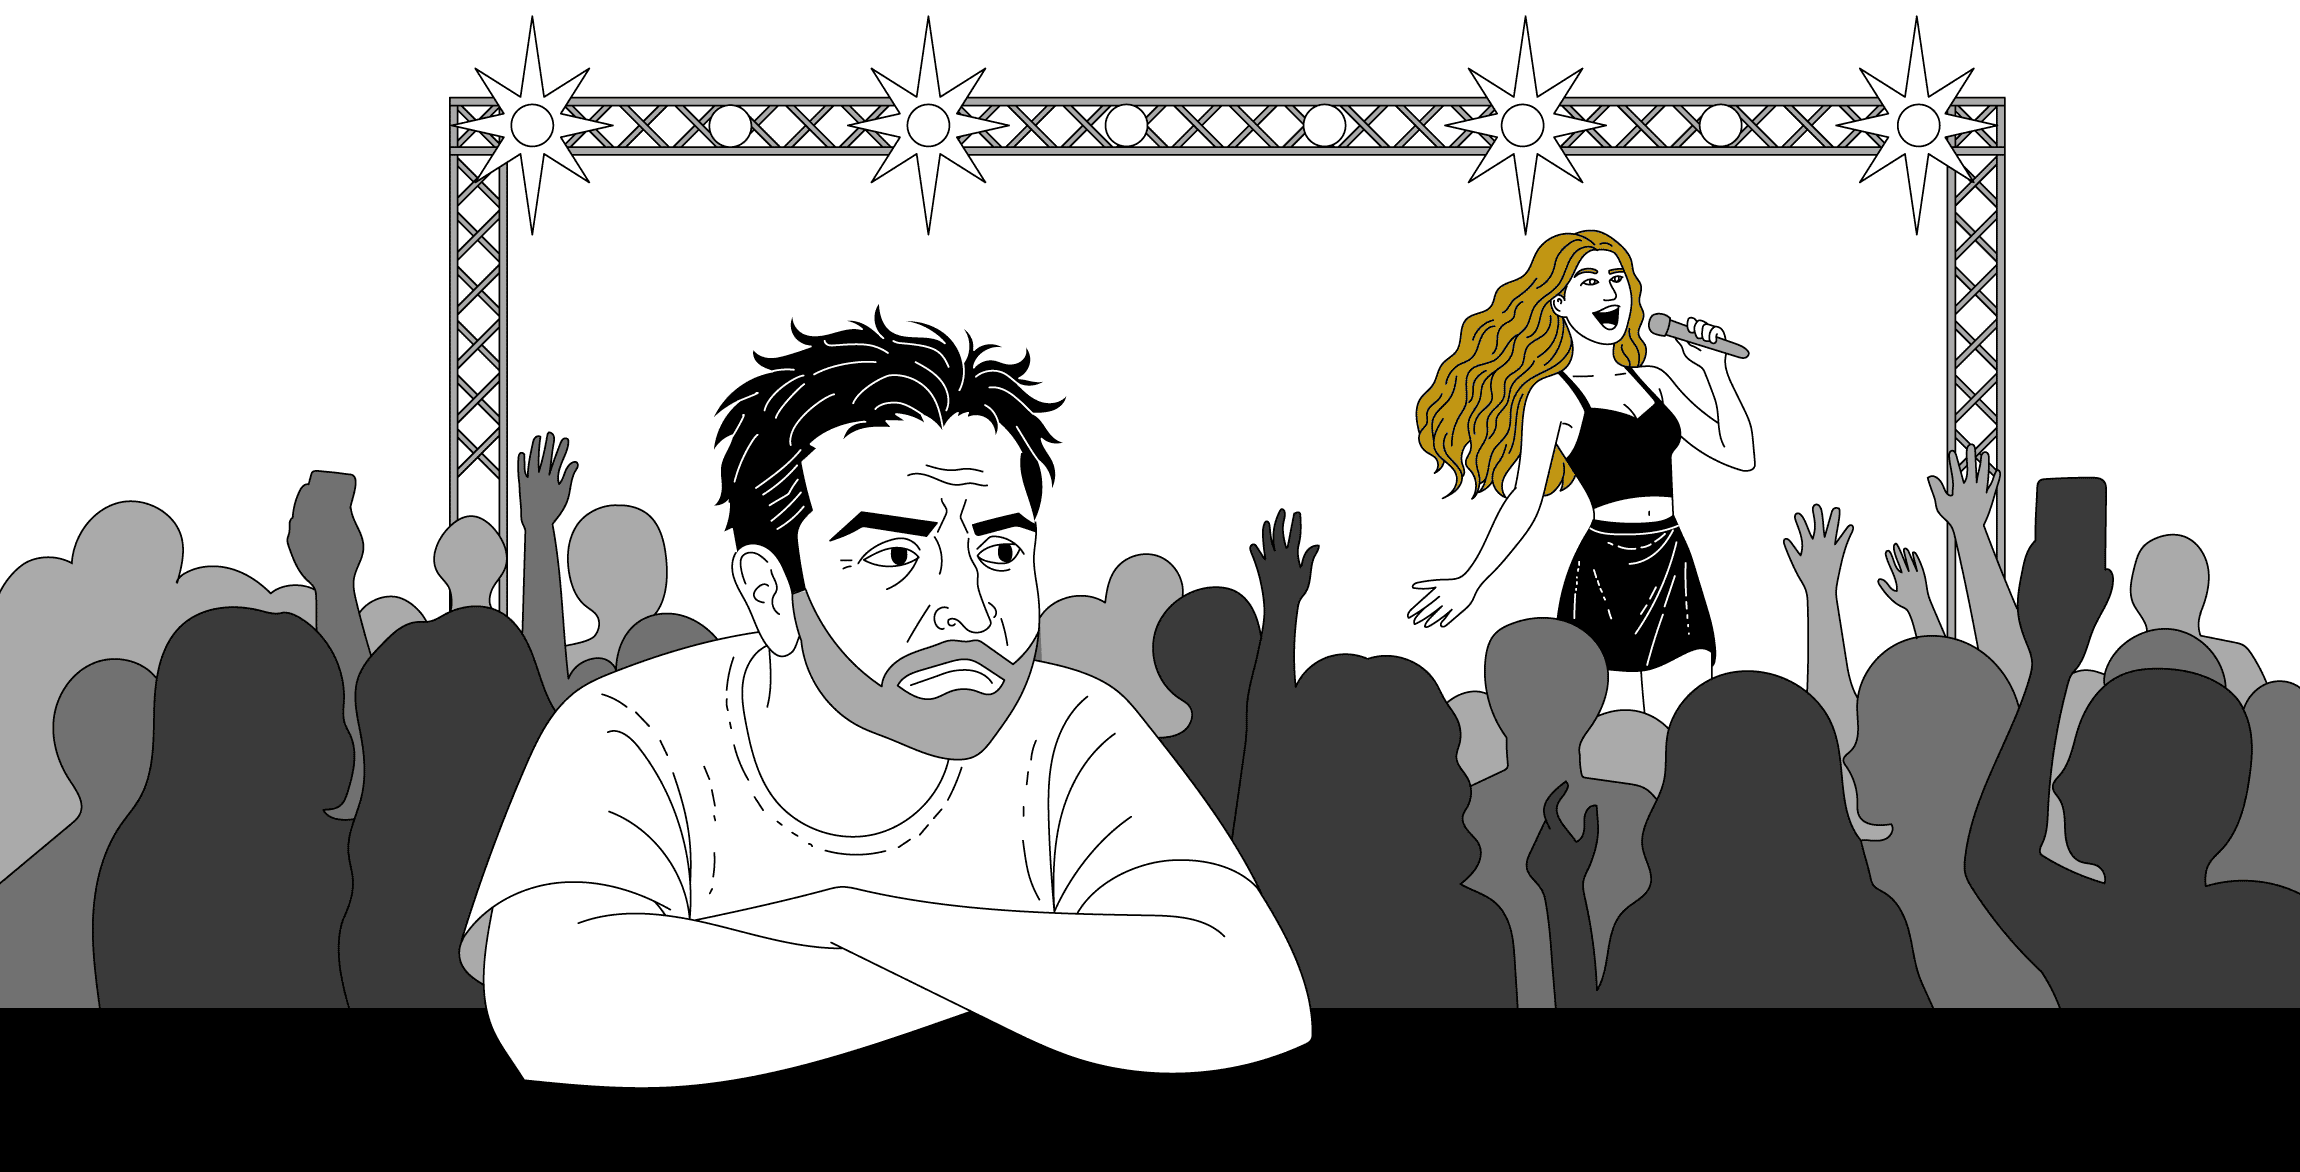
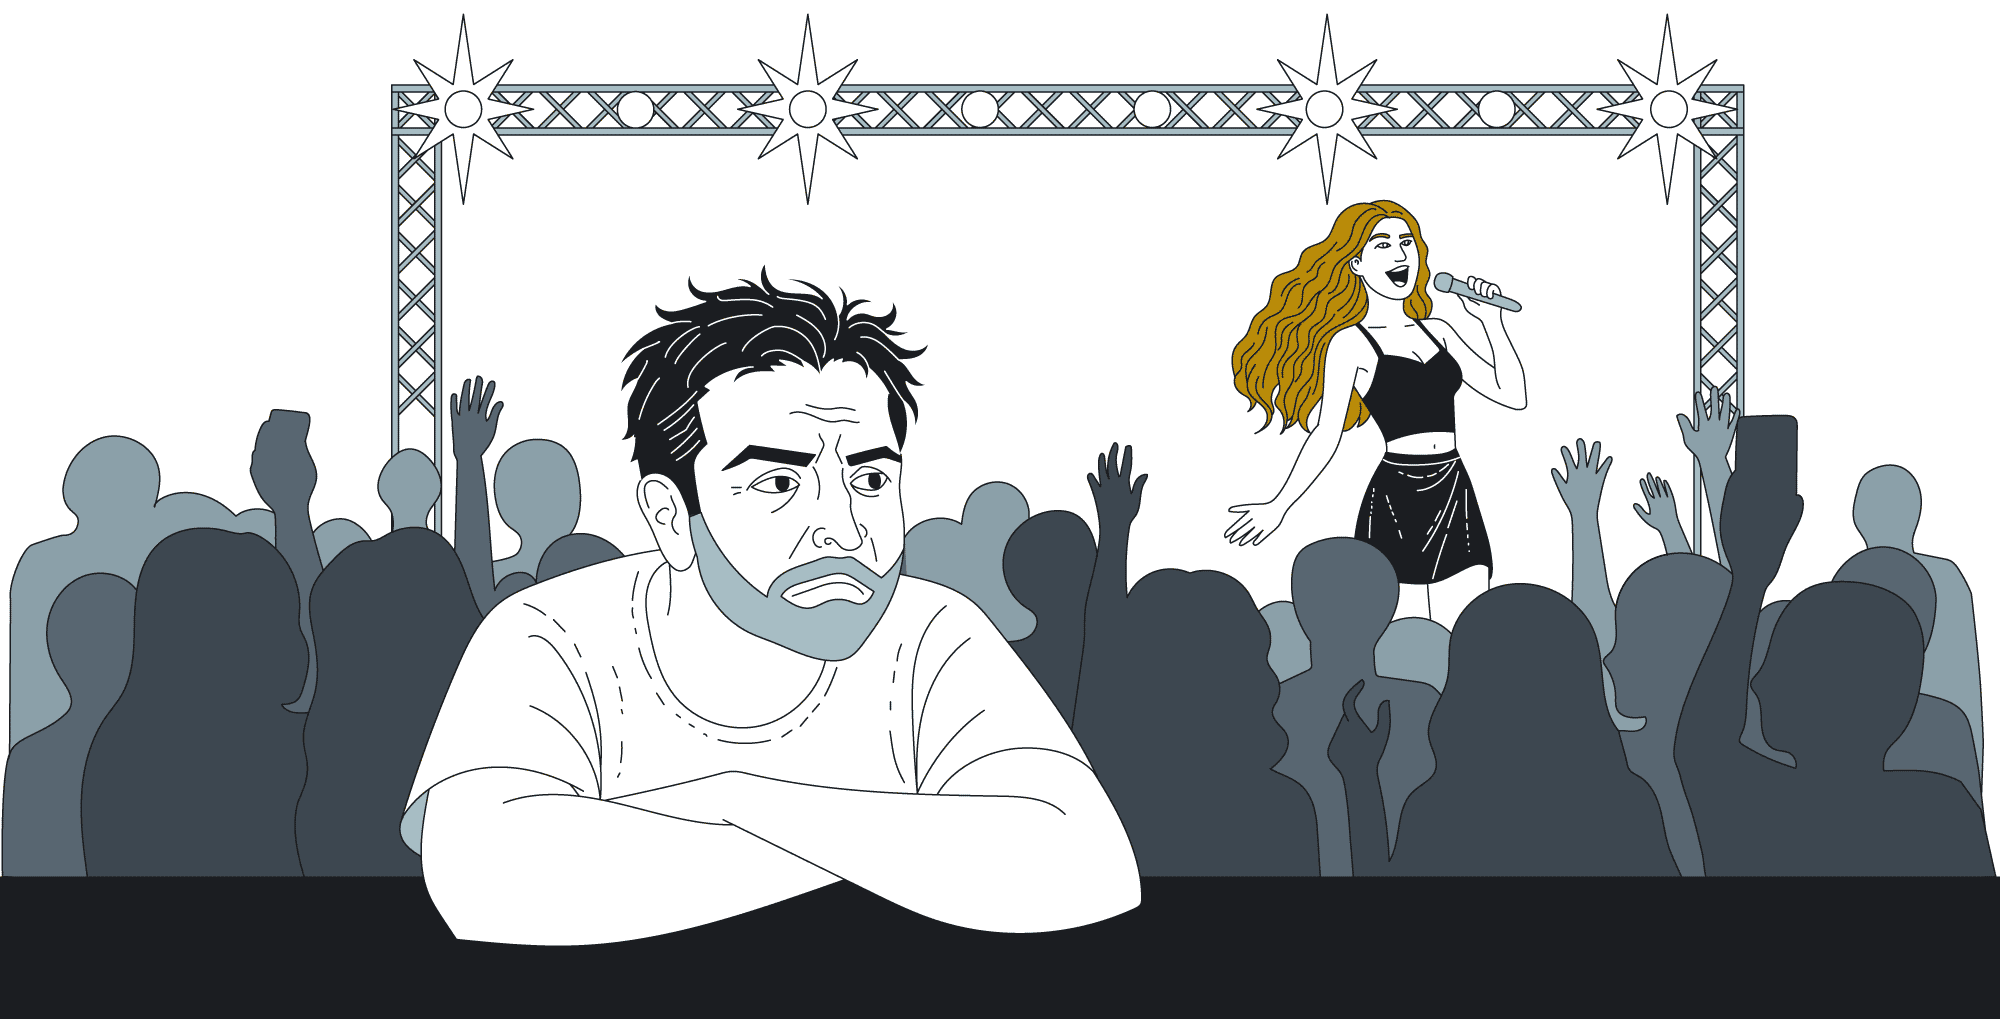
design: updating section illos with new black

diff --git a/src/styles/app.css b/src/styles/app.css
@@ -166,7 +166,8 @@ section > *:not(.graphic) {
 }
 /* These are needed for the section illo bgs */
 #adjectives::before,
-#irony::before{
+#irony::before,
+#nouns::before{
 	z-index: 0;
 	content: '';
 	position: absolute;
@@ -193,6 +194,13 @@ section > *:not(.graphic) {
 	background: #FFF;
 	bottom: 0;
 	margin: auto;
+}
+#nouns{
+	position: relative;
+}
+#nouns::before{
+	background: var(--color-adjusted-black);
+	height: 595px;
 }
 #adjectives h2{
 	-webkit-text-stroke: 10px var(--color-adjusted-black);
@@ -245,7 +253,8 @@ section > *:not(.graphic) {
 }
 @media screen and (max-width: 1000px) {
 	#adjectives::before,
-	#irony::before{
+	#irony::before,
+	#nouns::before{
 		display: none;
 	}
 }
